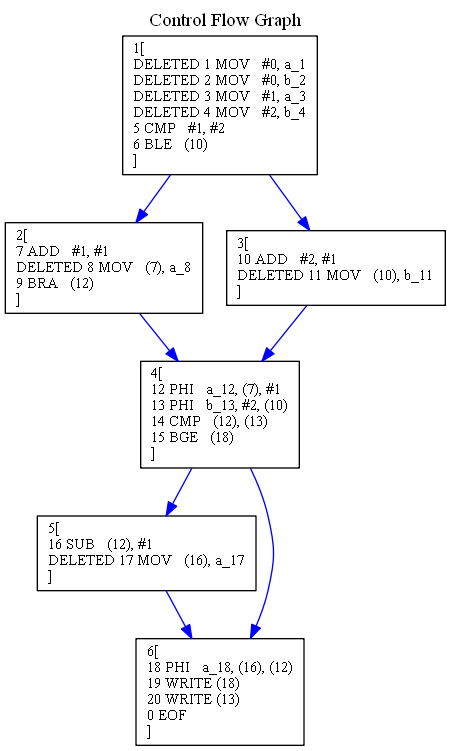
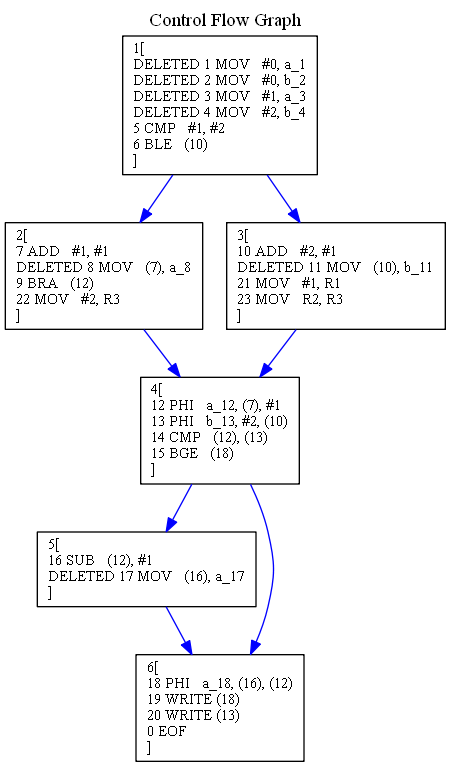
Completed RA with clustering and moves generation

diff --git a/RegisterAllocation.java b/RegisterAllocation.java
@@ -12,6 +12,7 @@ public class RegisterAllocation {
 	private Set<Integer> _whileJoinBlockIds;
 	private List<Set<Instruction>> _clusters;
 	public Map<Integer, Integer> registerMapping;
+	private Map<Instruction, BasicBlock> _phis;
 	
 	public RegisterAllocation(){
 		_interferenceGraph = new RIG();
@@ -20,6 +21,7 @@ public class RegisterAllocation {
 		_whileJoinBlockIds = new HashSet<Integer>();
 		_clusters = new ArrayList<Set<Instruction>>();
 		registerMapping = new HashMap<Integer, Integer>();
+		_phis = new HashMap<Instruction, BasicBlock>();
 	}
 	
 	public RIG getRIG(){
@@ -41,6 +43,7 @@ public class RegisterAllocation {
 		calculateLiveRange(root, null, 2);
 		_graphCopy.copy(_interferenceGraph);
 		allocateReg();
+		insertMoves();
 	}
 	
 	private void allocateReg(){
@@ -85,18 +88,53 @@ public class RegisterAllocation {
 		}
 	}
 	
-	private void generateMoveInstruction(Result res, int regNum, Instruction phi) {
+	private void insertMoves(){
+		for(Map.Entry<Instruction, BasicBlock> entry : _phis.entrySet()){
+			Instruction instr2 = null;
+			Instruction instr3 = null;
+			if(entry.getKey().op2 != null && entry.getKey().op2.kind == Result.Kind.INSTR)
+				instr2 = Instruction.allInstructions.get(entry.getKey().op2.version);
+			if(entry.getKey().op3 != null && entry.getKey().op3.kind == Result.Kind.INSTR)
+				instr3 = Instruction.allInstructions.get(entry.getKey().op3.version);
+			if(instr2 != null && instr2.regNo != entry.getKey().regNo){
+				generateMoveInstruction(entry.getKey().regNo, instr2.regNo, entry.getValue(), 1, false);
+			}else if(instr2 == null && entry.getKey().op2.kind == Result.Kind.CONST){
+				generateMoveInstruction(entry.getKey().regNo, entry.getKey().op2.value, entry.getValue(), 1, true);
+			}
+			
+			if(instr3 != null && instr3.regNo != entry.getKey().regNo){
+				generateMoveInstruction(entry.getKey().regNo, instr3.regNo, entry.getValue(), 2, false);
+			}else if(instr3 == null && entry.getKey().op3.kind == Result.Kind.CONST){
+				generateMoveInstruction(entry.getKey().regNo, entry.getKey().op3.value, entry.getValue(), 2, true);
+			}
+		}
+	}
+	
+	private void generateMoveInstruction(int destReg, int source, BasicBlock current, int branch, boolean constant){
 		Instruction instr = new Instruction();
 		instr.kind = Instruction.Kind.STD;
-		instr.op2 = res;
-		Result register = new Result();
-		register.kind = Result.Kind.REG;
-		register.value = regNum;
+		Result dest = new Result();
+		dest.kind = Result.Kind.REG;
+		dest.regNo = destReg;
 		instr.operation = "MOV";
+		Result s = new Result();
+		if(!constant){
+			s.kind = Result.Kind.REG;
+			s.regNo = source;
+		}else{
+			s.kind = Result.Kind.CONST;
+			s.value = source;
+		}
+		instr.op1 = s;
+		instr.op2 = dest;
 		instr.instructionNumber = Parser._lineNum;
-		instr.thisBlock = phi.thisBlock;
-		phi.thisBlock.instructions.put(Parser._lineNum++, instr);
-		
+		if(branch == 1){
+			instr.thisBlock = current.leftParent;
+			current.leftParent.instructions.put(Parser._lineNum++, instr);
+		}else if(branch == 2){
+			instr.thisBlock = current.rightParent;
+			current.rightParent.instructions.put(Parser._lineNum++, instr);
+		}
 	}
 	
 	private int colorNode(RIGNode node, Instruction instr, int color){
@@ -228,6 +266,9 @@ public class RegisterAllocation {
 		}
 		for (Instruction ent : blockInstructionsReverse) {
 			if(!ent.isDeleted && ent.kind == Instruction.Kind.PHI){
+				if(!_phis.containsKey(ent)){
+					_phis.put(ent, node);
+				}
 				boolean existsInCluster = false;
 				for(Set<Instruction> mem : _clusters){
 					if(mem.contains(ent) || 

diff --git a/Parser.java b/Parser.java
@@ -121,9 +121,7 @@ public class Parser {
 		    
 		    
 		    VCGPrinter vp = new VCGPrinter();
-		    vp.setOutputName("CFG" + fileIndex);
-		    vp.init();
-		    vp.printCFG(cfg);
+		    
 		    
 		    vp.setOutputName("DT" + fileIndex);
 		    vp.init();
@@ -133,6 +131,9 @@ public class Parser {
 		    vp.init();
 		    vp.printRIG(ra.getRIG());
 		    
+		    vp.setOutputName("CFG" + fileIndex);
+		    vp.init();
+		    vp.printCFG(cfg);
 		    // printing the final instructions
 //		    FinalInstructions fi = new FinalInstructions(ra);
 //		    TreeMap<Integer, Instruction> finalInstructions = new TreeMap<Integer, Instruction>(fi.finalInstructions);
